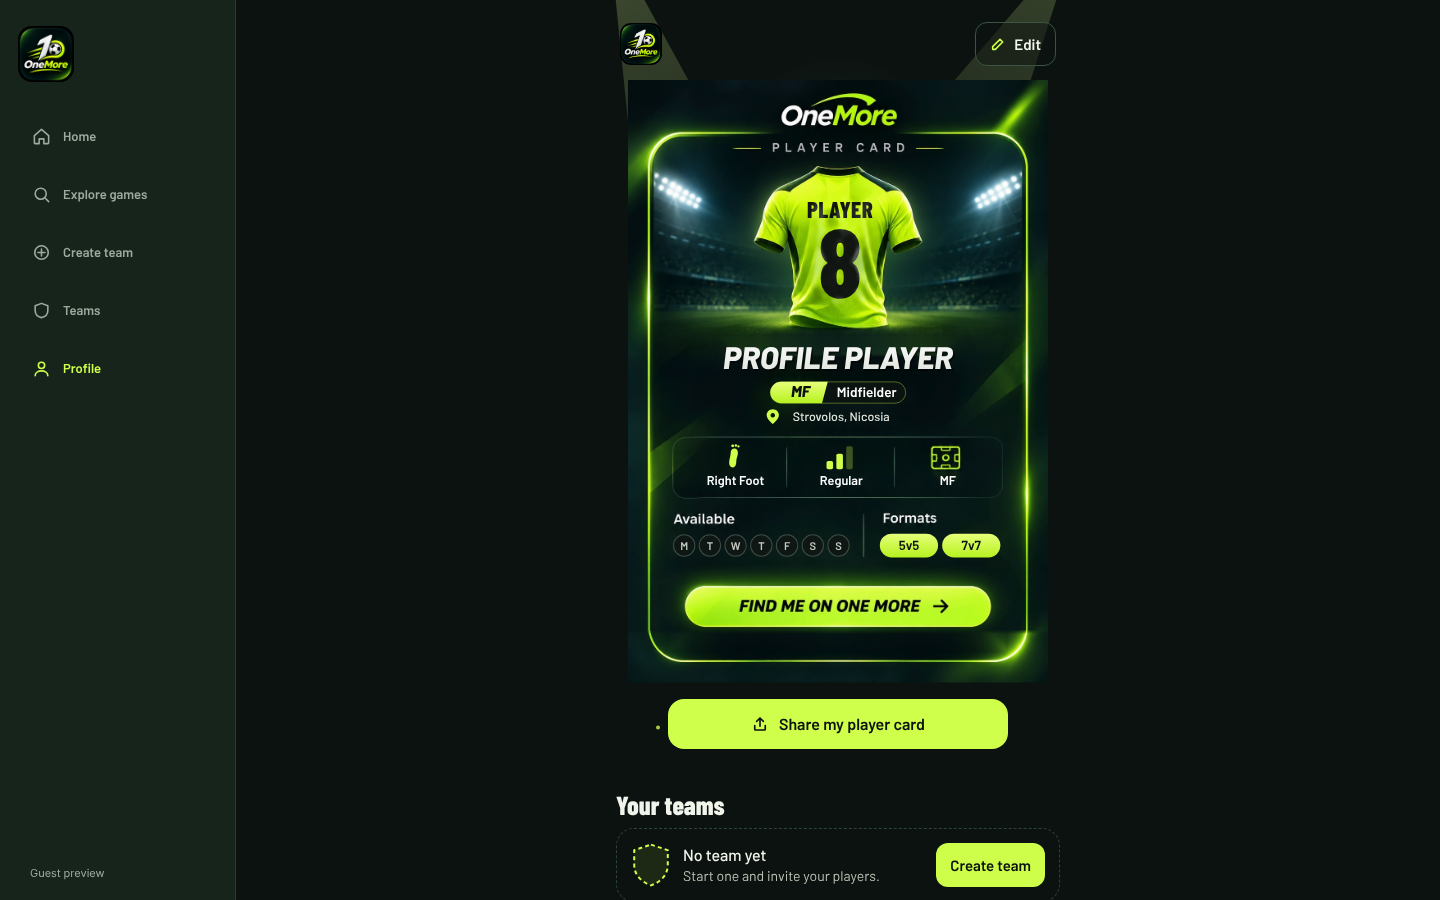
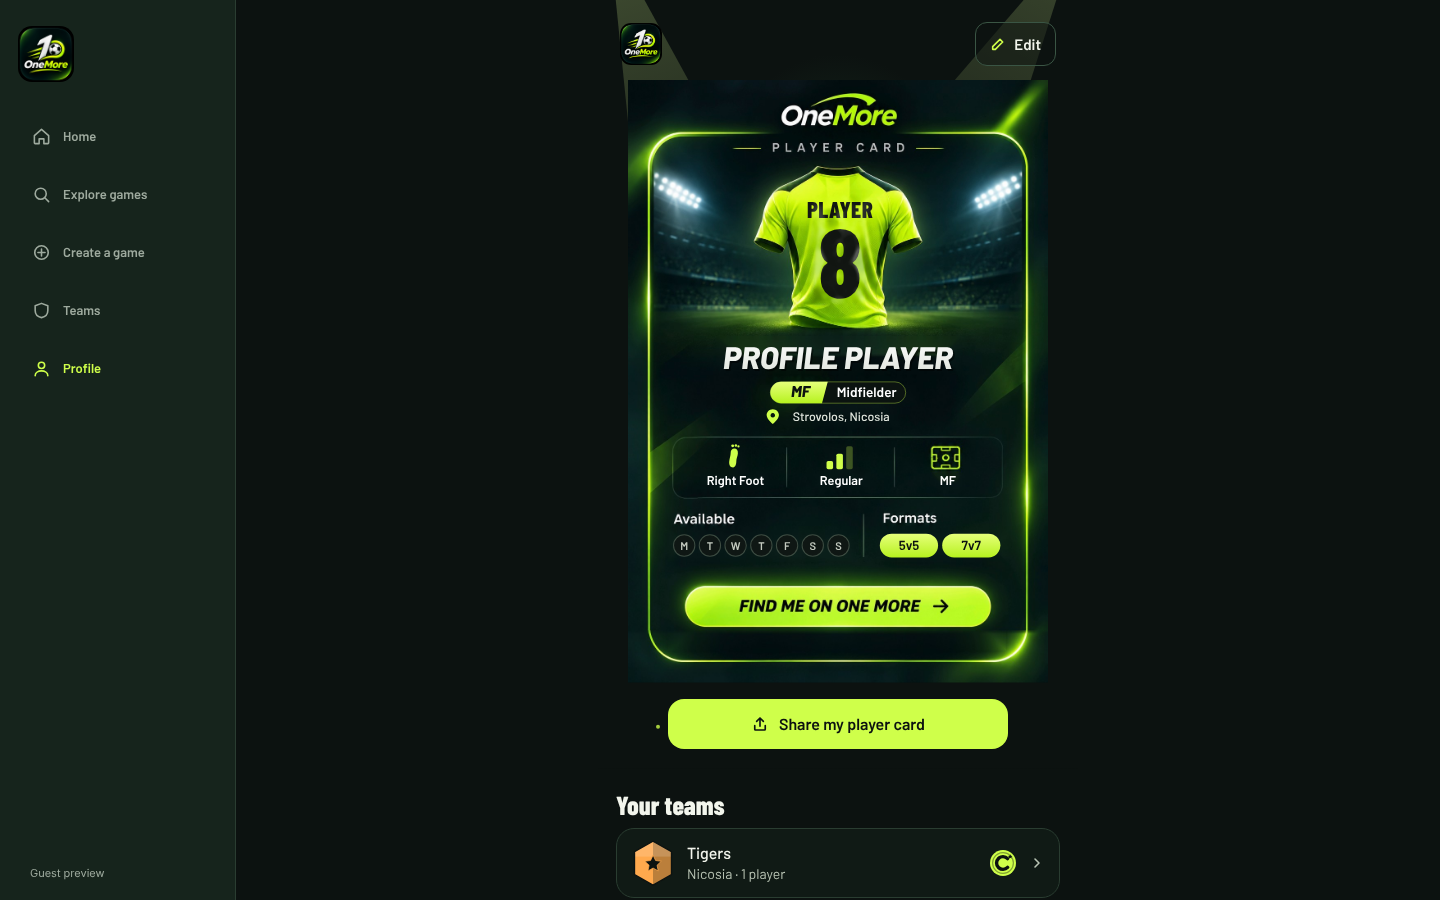
Fix the profile team row and show the real crest and name
Claude-Session: https://claude.ai/code/session_018Y2DJcCxNRruUAufNUxVdN

Changed region(s): [[0.4375, 0.9333, 0.75, 1.0], [0.0625, 0.28, 0.0938, 0.3111]]

diff --git a/src/features/profile/PlayerProfile.tsx b/src/features/profile/PlayerProfile.tsx
@@ -1,4 +1,4 @@
-import { Link, router, type Href } from 'expo-router';
+import { router, type Href } from 'expo-router';
 import { useCallback, useEffect, useMemo, useState, type ReactNode } from 'react';
 import {
   Animated,
@@ -43,6 +43,7 @@ import {
   type PlayerCardData,
 } from '@/features/profile/PlayerCardShareModal';
 import { listMyTeams, type MyTeam } from '@/features/teams/team-service';
+import { CaptainBadge, Crest as TeamCrestArt, crestInitials } from '@/features/teams/TeamCrest';
 import { translations, type Locale, type TranslationKey } from '@/i18n';
 import { useAppPreferences } from '@/preferences/AppPreferencesProvider';
 import type { ThemeColors } from '@/theme/tokens';
@@ -252,25 +253,37 @@ export function PlayerProfile() {
           {teams.length ? (
             <View style={styles.listCard}>
               {teams.map((team, index) => (
-                <Link key={team.teamId} href={`/teams/${team.teamId}` as Href} asChild>
-                  <Pressable
-                    accessibilityRole="link"
-                    style={({ pressed }) => [
-                      styles.row,
-                      index < teams.length - 1 && styles.rowDivider,
-                      pressed && { backgroundColor: colors.cardTop },
-                    ]}
-                  >
+                <Pressable
+                  key={team.teamId}
+                  accessibilityRole="link"
+                  accessibilityLabel={team.name}
+                  onPress={() => router.push(`/teams/${team.teamId}` as Href)}
+                  style={({ pressed }) => [
+                    styles.row,
+                    index < teams.length - 1 && styles.rowDivider,
+                    pressed && { backgroundColor: colors.cardTop },
+                  ]}
+                >
+                  {team.crest ? (
+                    <TeamCrestArt {...team.crest} initials={crestInitials(team.name)} size={44} />
+                  ) : (
                     <ShieldOutline color={colors.accentText} dashed={false} />
-                    <View style={styles.rowCopy}>
-                      <Text style={styles.rowTitle}>{team.name}</Text>
-                      <Text style={styles.muted}>
-                        {`${team.memberCount} · ${locale === 'en' ? team.cityNameEn : team.cityNameEl}`}
-                      </Text>
-                    </View>
-                    <Chevron color={colors.textSecondary} />
-                  </Pressable>
-                </Link>
+                  )}
+                  <View style={styles.rowCopy}>
+                    <Text numberOfLines={1} style={styles.rowTitle}>
+                      {team.name}
+                    </Text>
+                    <Text style={styles.muted}>
+                      {`${locale === 'en' ? team.cityNameEn : team.cityNameEl} · ${
+                        team.memberCount === 1
+                          ? copy.teamPlayerOne
+                          : copy.teamPlayersCount.replace('{count}', String(team.memberCount))
+                      }`}
+                    </Text>
+                  </View>
+                  {team.role === 'captain' ? <CaptainBadge label={copy.teamCaptain} /> : null}
+                  <Chevron color={colors.textSecondary} />
+                </Pressable>
               ))}
             </View>
           ) : (
@@ -1634,11 +1647,12 @@ export function makeStyles(colors: ThemeColors, locale: Locale) {
       overflow: 'hidden',
     },
     row: {
-      minHeight: 56,
+      minHeight: 64,
       paddingHorizontal: 14,
+      paddingVertical: 10,
       flexDirection: 'row',
       alignItems: 'center',
-      gap: 10,
+      gap: 12,
     },
     rowDivider: { borderBottomWidth: 1, borderBottomColor: colors.navBorder },
     email: { color: colors.textMuted, fontFamily: body, fontSize: 13 },

diff --git a/e2e/phase-17-profile-reference.spec.ts b/e2e/phase-17-profile-reference.spec.ts
@@ -109,7 +109,22 @@ test('profile matches the animated player reference and saves editable details',
         created_at: new Date(now * 1000).toISOString(),
         updated_at: new Date(now * 1000).toISOString(),
       },
-      get_my_teams: [],
+      get_my_teams: [
+        {
+          team_id: 't1',
+          name: 'Tigers',
+          city_id: cityId,
+          city_name_en: 'Nicosia',
+          city_name_el: 'Λευκωσία',
+          description: null,
+          member_count: 1,
+          role: 'captain',
+          crest_shape: 'hex',
+          crest_color: '#ffa94d',
+          crest_pattern: 'half',
+          crest_emblem: 'star',
+        },
+      ],
     };
     await route.fulfill({
       status: 200,
@@ -123,6 +138,9 @@ test('profile matches the animated player reference and saves editable details',
   await page.goto('/profile');
   await expect(page.getByRole('button', { name: 'Share my player card' })).toBeVisible();
   await expect(page.getByRole('img', { name: 'Your player card: Profile Player' })).toBeVisible();
+  // Teams are rows with the crest, the real name, city and player count.
+  await expect(page.getByRole('link', { name: 'Tigers' })).toBeVisible();
+  await expect(page.getByText('Nicosia · 1 player')).toBeVisible();
   // The profile only shows the card: nothing is edited in place any more.
   await expect(page.getByRole('heading', { name: 'Where you play' })).toHaveCount(0);
   await expect(page.getByRole('button', { name: 'Raise shirt number' })).toHaveCount(0);

diff --git a/docs/IMPLEMENTATION_LOG.md b/docs/IMPLEMENTATION_LOG.md
@@ -1747,3 +1747,7 @@
 - Edit page: hero on top, the existing sections below (not yet turned into tap-to-edit cards).
 - Create flow step 3 has a Pitch booking row (Not booked / Pending / Confirmed, default Not booked) saved as `booking_status`; step 3 uses the slim ticket so it fits one screen.
 - Checks: tsc, eslint, vitest 39; Playwright create-game (flow, notification badges, edit keeps published, game page), layout audit, chat and creation gate pass. `phase-05-discovery` fails in this sandbox with and without these changes (needs the real backend).
+
+## Phase 17 — Profile "Your teams" row fix
+
+- The team row on the profile lost its layout (crest above the name, no padding) because a style function was passed through `Link asChild`. It now uses a plain Pressable with `router.push`, shows the team's real crest (shield outline fallback until the team-list migration is applied), the real name, "City · N players", a captain badge for captains and a chevron. Profile spec asserts the row.
